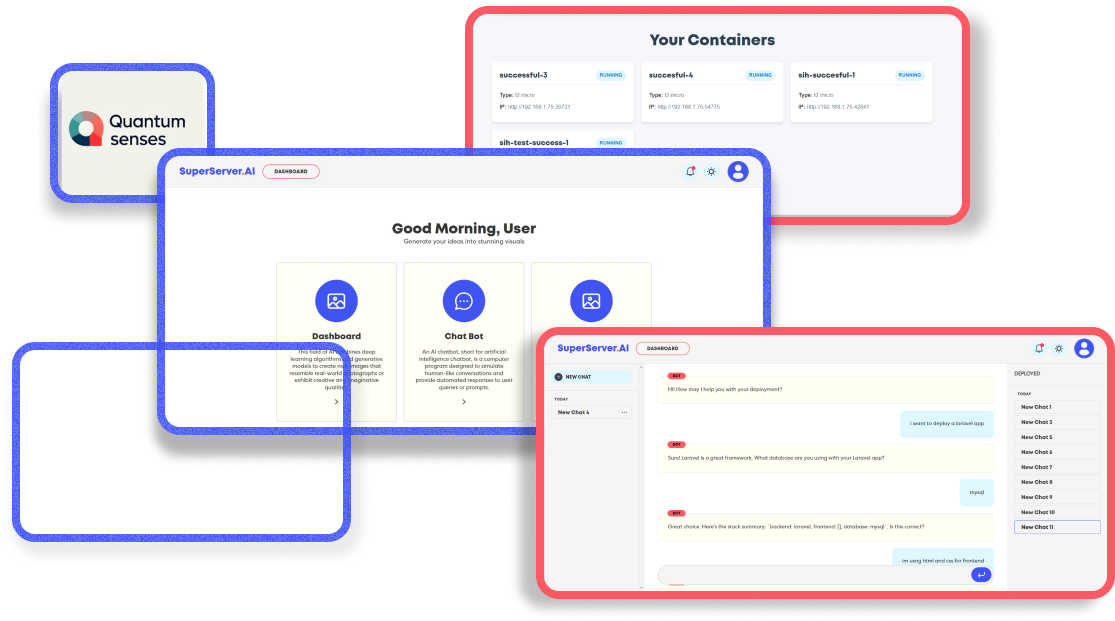
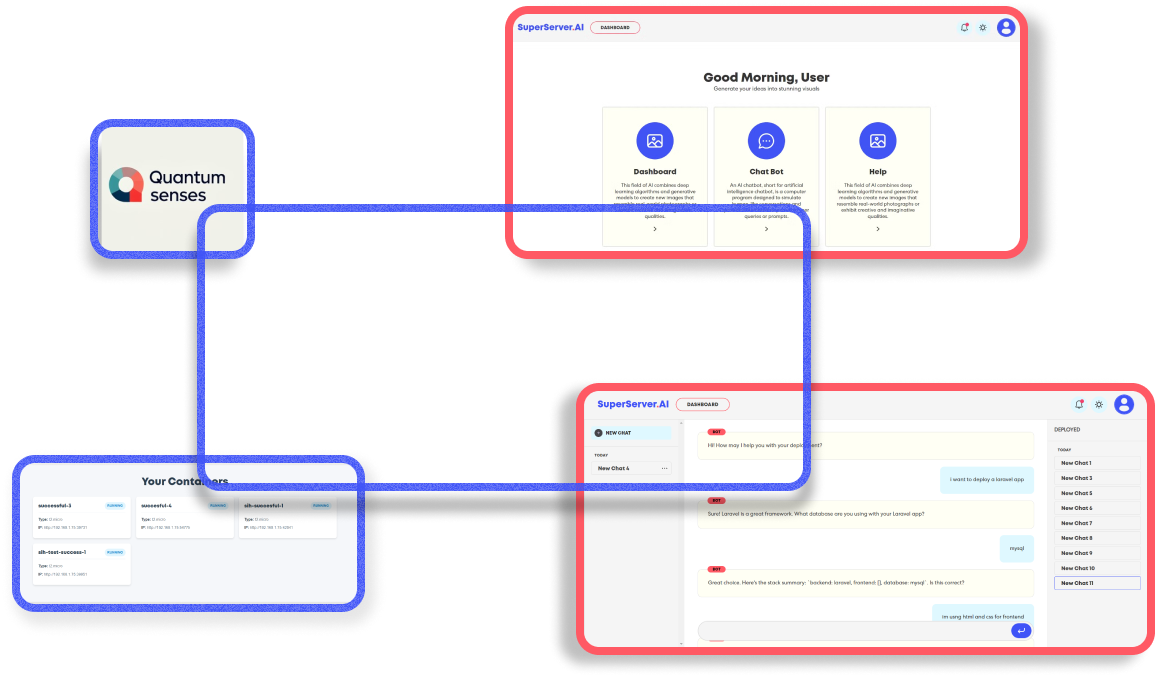
hero

Changed region(s): [[0.0, 0.0, 1.0, 0.9791], [0.7928, 0.0918, 0.8233, 0.153], [0.0915, 0.7955, 0.122, 0.8261]]

diff --git a/src/components/Hero.jsx b/src/components/Hero.jsx
@@ -31,7 +31,25 @@ function Hero() {
       <div className="w-full lg:w-1/2 mb-8 lg:mb-0 lg:pr-8">
         <div className="lg:text-left max-w-xl mx-auto lg:mx-4">
           <h1 className="text-3xl text-center sm:text-3xl lg:text-4xl xl:text-4xl leading-tight font-bold mb-4 font-heading text-text">
-          Seamlessly Deploy
+          Seamlessly{' '}
+      <span className="relative mr-3 text-secondary">
+        <TypeAnimation
+          sequence={[
+            'Deploy',
+            3000,
+            'Manage',
+            3000,
+            'Secure',
+            3000,
+          ]}
+          wrapper="span"
+          speed={40}
+          style={{ display: 'inline-block' }}
+          repeat={Infinity}
+          cursor={false}
+        />
+        <span className="custom-cursor">|</span>
+      </span>
       <br />your code, with ZERO knowledge of devops.
       <style jsx>{`
         .custom-cursor {
